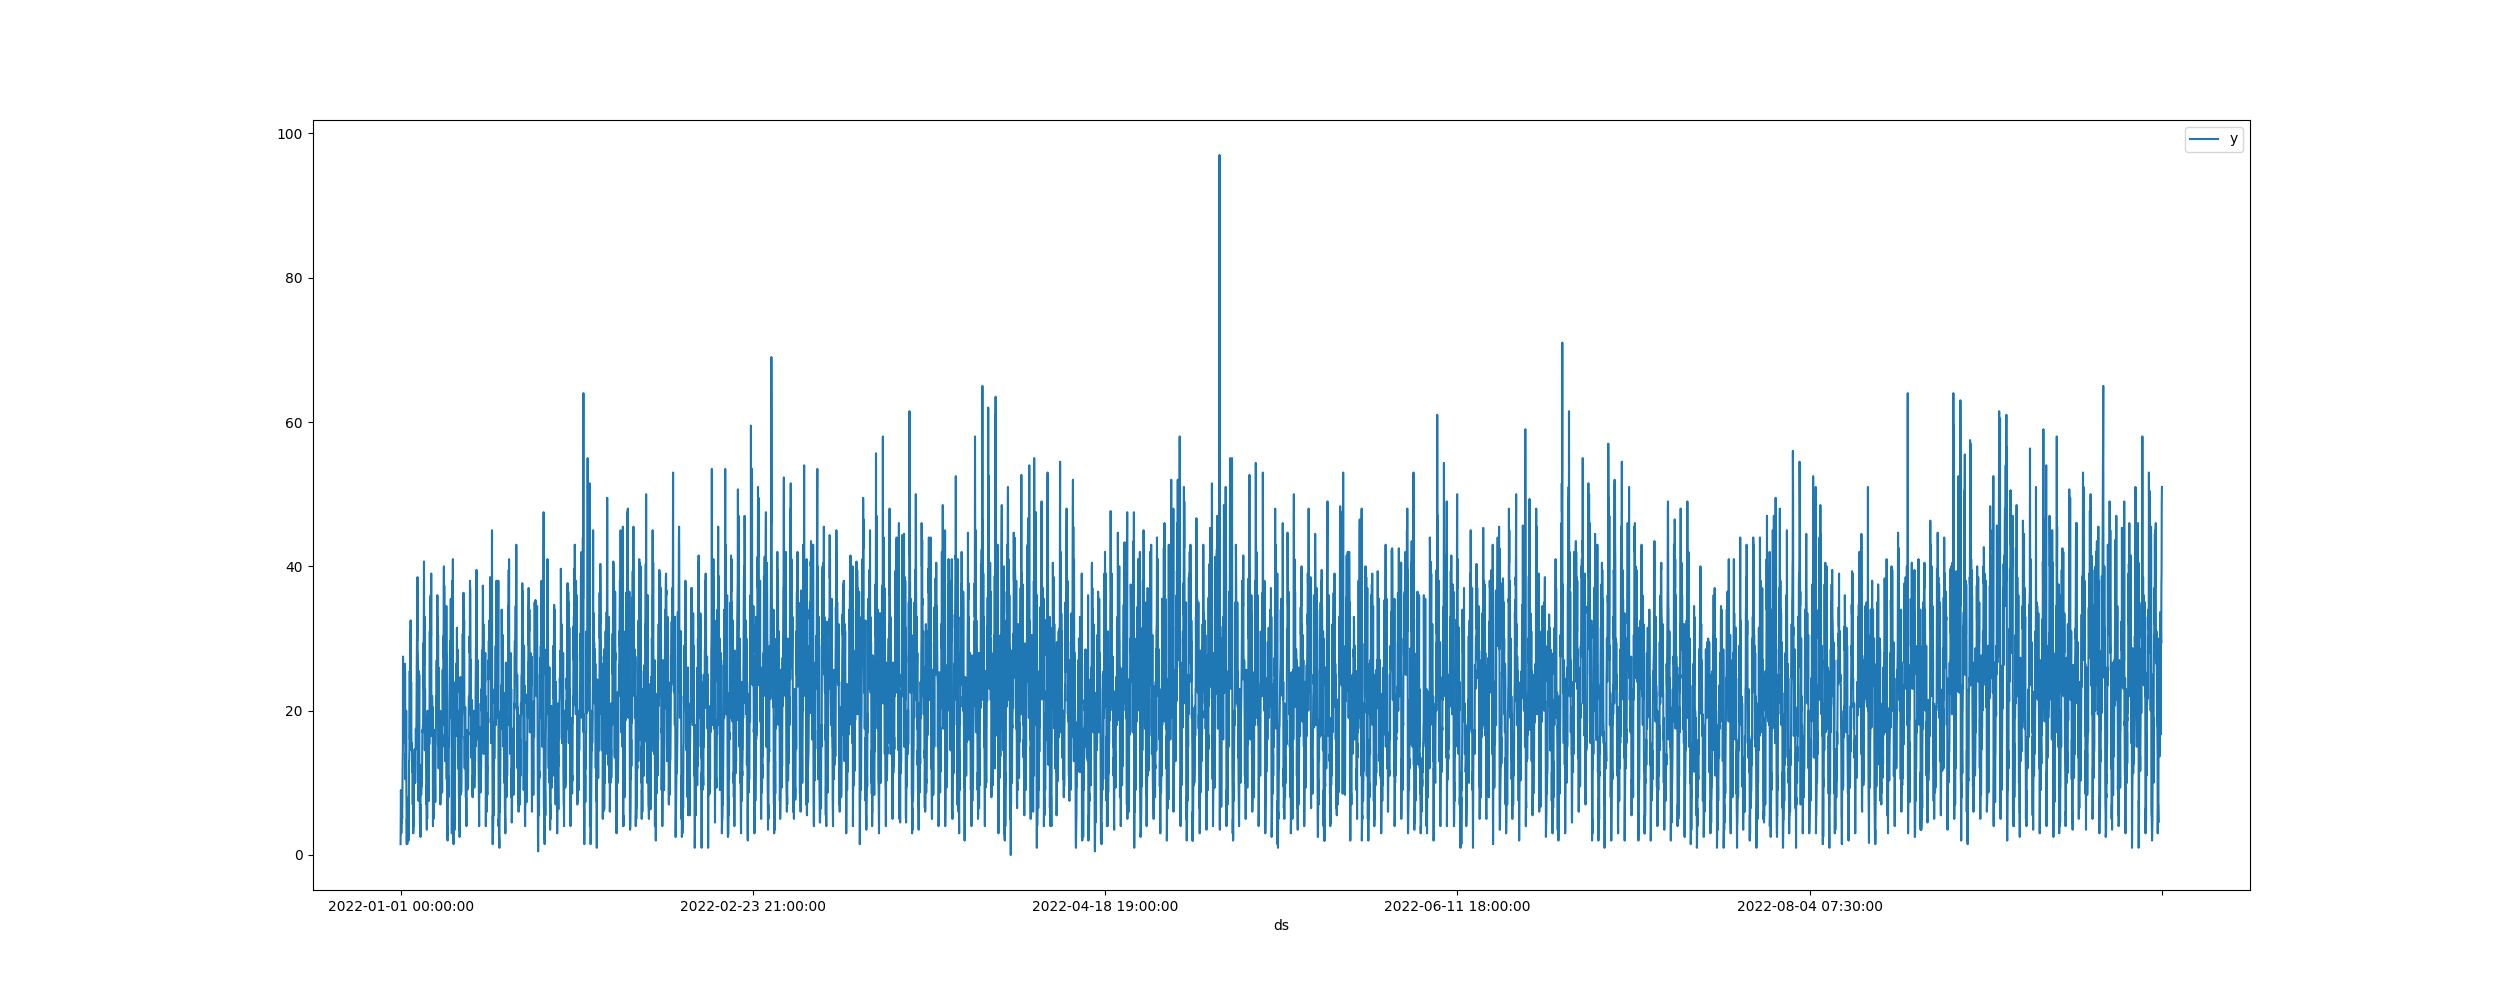
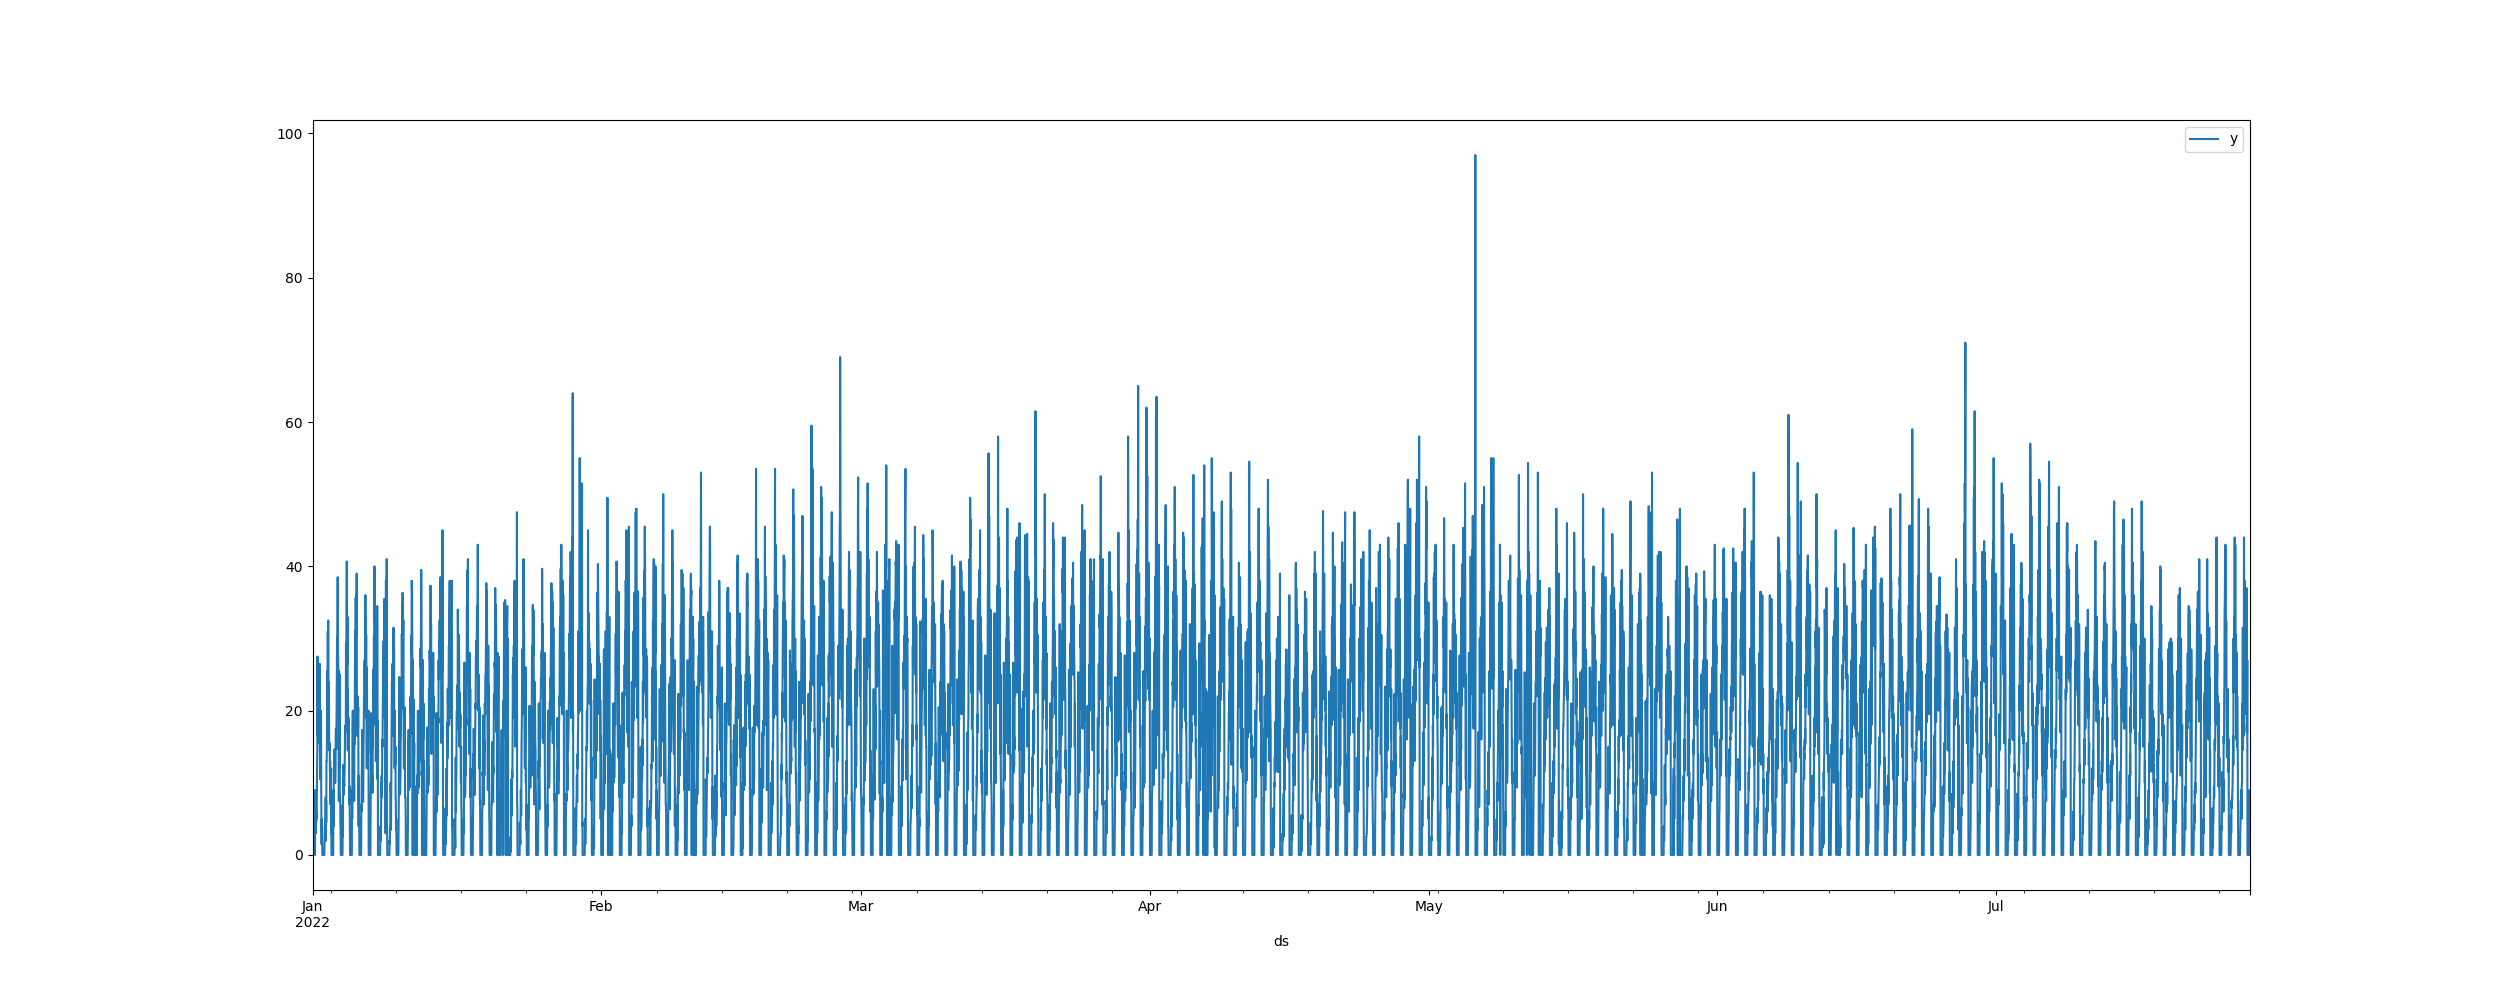
fix: add missing time intervals (impute as 0) to avoid buggy neuralprophet

diff --git a/src/inspect_data.py b/src/inspect_data.py
@@ -72,6 +72,9 @@ def main():
     # take the mean y for each ds
     norreport_1A = norreport_1A.groupby('ds').mean().reset_index()
 
+    # add missing time intervals
+    norreport_1A = add_missing_time_intervals(norreport_1A)
+
     # save 
     norreport_1A.to_csv('data/processed_1A_norreport.csv', index=False)
 
